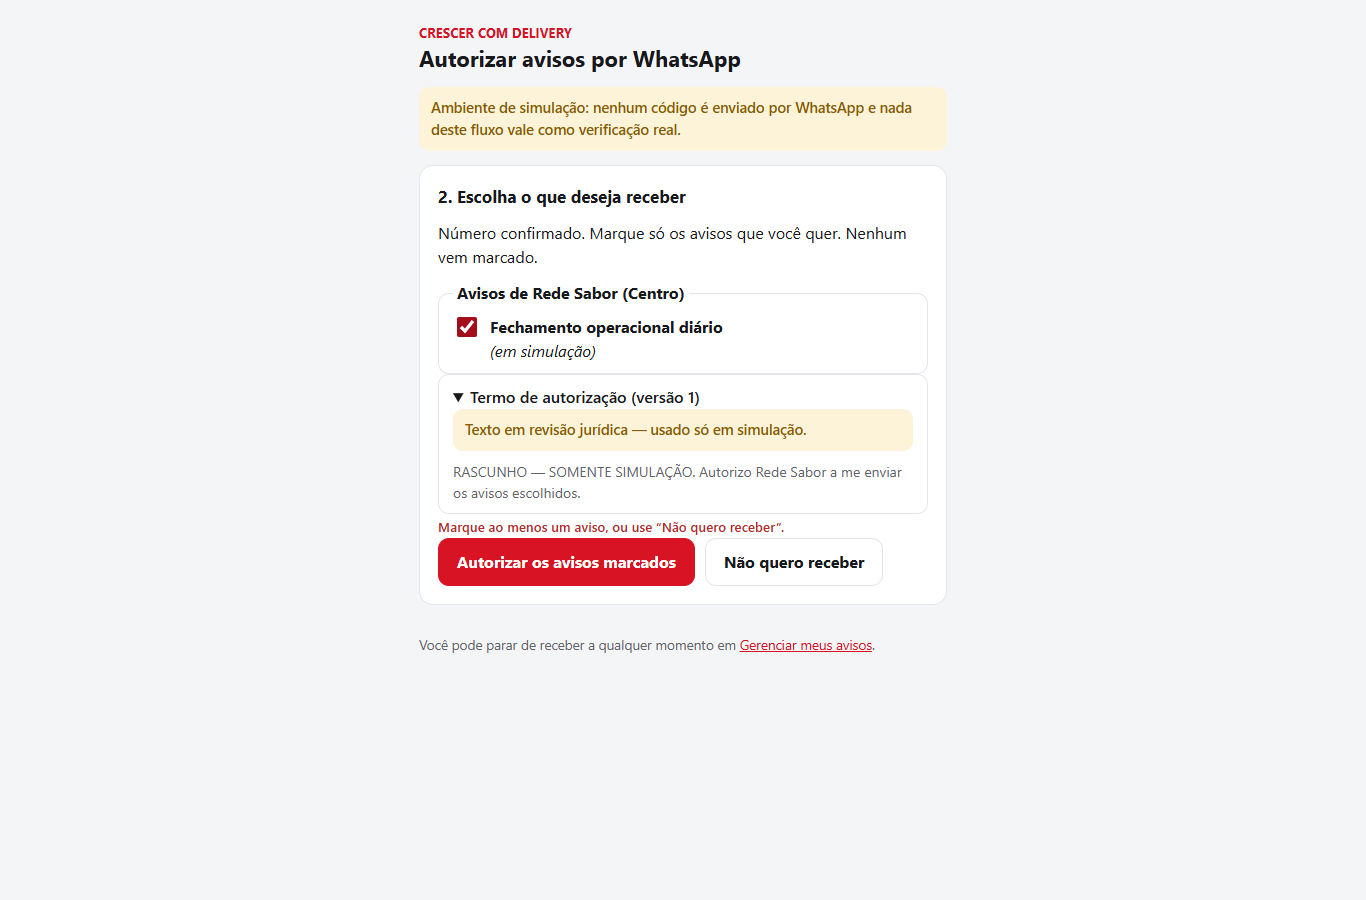
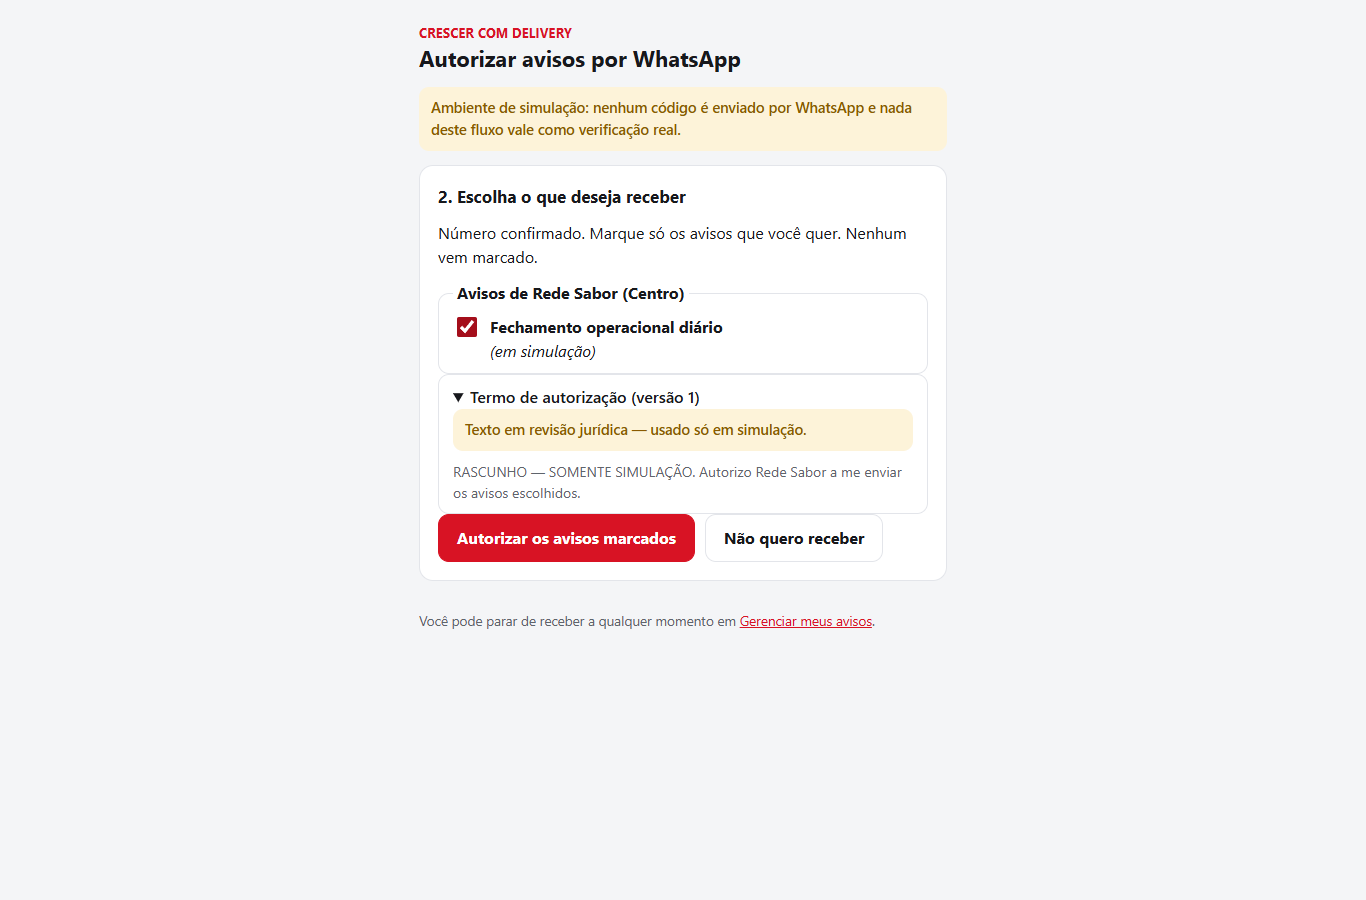
docs(configuracoes-2): revisão final do PR #55, pré-voo de produção e plano de recuperação
- 12 §8: achados R1–R9, regressão final × main, o que não foi executado.
- 14: pré-voo de produção (só leitura), procedimento de implantação, recuperação,
  estado e procedimento do Supabase de teste (bloqueado: confirmação interativa).
- Evidências atualizadas (PostgreSQL 77/77, navegador 9/9, capturas dos perfis).

Changed region(s): [[0.3075, 0.56, 0.6457, 0.6533], [0.3075, 0.6844, 0.6457, 0.7467]]

diff --git a/docs/configuracoes-2-notificacoes/14-preflight-implantacao-recuperacao.md b/docs/configuracoes-2-notificacoes/14-preflight-implantacao-recuperacao.md
@@ -1,0 +1,94 @@
+# 14 — Pré-voo de produção, procedimento de implantação e plano de recuperação
+
+Data: 30/10/2026. PR #55 (`feat/configuracoes-2-central-notificacoes`). Tudo abaixo foi verificado **somente com leitura** em produção.
+Nada foi aplicado, publicado ou alterado em produção.
+
+## 1. Pré-voo de produção (somente leitura, só agregados)
+
+| Verificação | Resultado |
+|---|---|
+| Projeto | `uqybgauuxcrqzquultfu` (produção), PostgreSQL 17.6 — mesma versão dos testes locais |
+| Migrations registradas | até a **131** (`131_checklist_metas_transferencia_unidade`); a main também termina na 131 → 132–135 livres |
+| Funções do D-1 e da transferência (`agendar`, `resolver_destinatarios`, `reservar_envio`, `claim_mensagens`, `remapear_organizacao…`) | **hash idêntico** ao da cadeia da main reconstruída no PostgreSQL descartável (5/5) |
+| Objetos que 132–135 criam | nenhum existe (0 tabelas, 0 colunas, 0 funções) — aplicação limpa |
+| Categorias | só `pendencia_d1` |
+| Flag `selecao_por_escopo` | ausente (seleção por unidade desligada) |
+| Destinatários do D-1 | 41 (41 com `pendencia_d1` habilitada) |
+| Fila ativa no momento | 4 mensagens (operação normal) |
+| Unidades | 53 |
+
+**Compatibilidade código antigo × tabelas novas:** o código atual de produção não conhece as tabelas novas; as colunas novas de
+`unidades` são nulas; o gatilho de `unidades` só valida as colunas novas; a única função existente substituída (`agendar`) muda uma
+linha e, com a flag ausente, chama exatamente o resolvedor antigo (prova no PostgreSQL: mensagens idênticas, reagendamento
+idempotente, fila com colunas/restrições/gatilhos idênticos). O gatilho novo em `comunicacao_destinatario_categorias` só barra
+reativação de categoria **revogada pelo titular** — não há nenhuma revogação registrada hoje.
+
+**Compatibilidade código novo × banco sem as migrations:** o app sobe; fuso cai no padrão (`obterFusoDaUnidade` → nulo), a tela da
+unidade esconde a seção de fuso (`fusoDisponivel=false`), o aviso de fechamento simulado é `try/catch` e a Central responde erro/indisponível.
+Ainda assim, **aplicar as migrations antes do merge** é a ordem recomendada.
+
+**O segredo mestre não é necessário para iniciar** (app real iniciado sem `NOTIFICACOES_SEGREDO_MESTRE`: `/health` 200, páginas
+públicas 200, rotas do titular 503 "indisponível"). Sem ele a Central fica em consulta.
+
+**Cadastro de usuários (D-14) — impacto operacional:** depois do deploy, o admin da EMPRESA não cria mais conta com senha.
+Conta existente → acesso na hora (como antes). Conta nova → sem o segredo: 503 "convites não habilitados"; com o segredo e sem SMTP:
+convite registrado, e-mail **não** enviado (a tela avisa). Enquanto o SMTP não estiver configurado, contas novas continuam podendo
+ser criadas pelo **Painel SuperAdmin** (`/api/v1/plataforma/usuarios`, inalterado).
+
+**Deploy automático:** pelo último registro conhecido (07/10, não reconfirmado: o conector do Render desta sessão não acessa o
+workspace do serviço), o serviço Render do backend (que também serve o frontend) faz auto-deploy a cada commit na `main` com mudança
+em `backend/` — este PR tem mudanças em `backend/`, então **o merge do PR dispara o deploy**. Não há preview do Render no PR #55 (nenhum deployment/check do Render
+no GitHub; confirmar no painel do Render, que esta sessão não acessa). O Vercel gera preview do PR, **protegido por login do
+Vercel** (toda rota responde 302 para `vercel.com/sso-api`).
+
+## 2. Procedimento de implantação (cada passo exige autorização própria)
+
+1. **Janela:** fora do horário de agendamento do D-1. Conferir fila ativa e `selecao_por_escopo` ausente.
+2. **Migrations em produção, em ordem, uma por vez:** 132 → 133 → 134 → 135. Depois de cada uma, rodar as consultas de verificação
+   do fim do arquivo. Depois da 133: hash de `comunicacao_agendar_mensagens_alerta` deve ser `7b7c0a59654ab29890187c5727c91419`
+   (o da branch no PostgreSQL 17) e os demais 4 hashes **inalterados**.
+3. **Conferências pós-migration (leitura):** anon/authenticated sem privilégio nas 7 tabelas e sem EXECUTE nas funções novas;
+   RLS ligada nas 7 tabelas; `resolver_destinatarios_unidade(org, unidade, 'dashboard_ifood_d1')` = `resolver_destinatarios(org, …)`
+   para todas as unidades ativas.
+4. **Merge do PR #55** (dispara o deploy do backend + frontend). Confirmar `/health` e a versão do `styles.css`/`configuracoes.css`.
+5. **Variáveis** (opcional nesta fase): `NOTIFICACOES_SEGREDO_MESTRE` (≥ 32 caracteres aleatórios, guardado fora do repositório).
+   **Nunca** definir `NOTIFICACOES_OTP_TRANSPORTE`, `NOTIFICACOES_AMBIENTE_ISOLADO` ou `NOTIFICACOES_M3_ATIVACAO_HABILITADA` em produção.
+6. **Observação pós-deploy (24 h):** D-1 do dia seguinte com a mesma quantidade de mensagens/destinatários; nenhum erro novo no log.
+7. **Fora desta implantação:** SMTP (DEP-2), corte de fuso (DEP-3), provedor oficial/termos (DEP-4/5), M3.
+
+## 3. Plano de recuperação
+
+| Situação | Ação | Efeito |
+|---|---|---|
+| Problema no código após o deploy | "Rollback" do deploy anterior no Render (ou `git revert -m 1 <merge>` na main, que redeploya) | Volta ao código anterior; as migrations podem ficar (o código antigo é compatível com elas — §1) |
+| Problema nas migrations | Rodar `135_rollback.sql` → `134` → `133` → `132`, nesta ordem | Provado no PostgreSQL descartável: agendamento do D-1 idêntico ao da main, nenhuma tabela nova sobra, reaplicação idempotente. A 133_rollback restaura o corpo EXATO da 104 |
+| Antes do rollback de migrations | Exportar `usuarios_convites`, `comunicacao_convites`, `comunicacao_consentimentos`, `comunicacao_destinatario_escopos` se houver linhas | O rollback **apaga** essas tabelas. Com o transporte desligado, em produção não haverá consentimento nem escopo novo |
+| Segredo mestre | Guardar cópia segura; removê-lo só desliga a escrita da Central | Sem ele, convites cifrados existentes ficam ilegíveis (não afeta o D-1) |
+| M3 | Não será ativada nesta implantação. Se um dia for: `comunicacao_desativar_selecao_por_escopo` | Volta ao resolvedor anterior |
+
+**Ordem segura de recuperação total:** 1) reverter o código; 2) conferir o D-1; 3) só então, se necessário, os rollbacks 135→132.
+
+## 4. Supabase de teste (`teste-multiempresarial`, `wiqqsxnysbzhcrzrrean`)
+
+**Estado:** isolado da produção (projeto diferente). WhatsApp com 2 conexões DISCONNECTED; fila pendente 0.
+Faltam objetos de 105, 109, 110, 116, 117, 118, 124, 127 e 131 (101–104 existem, embora não registrados em `schema_migrations`).
+As 4 funções que 132–135 tocam ou de que dependem têm hash **idêntico** ao da main; `claim_mensagens` difere (não é tocada).
+132–135 não referenciam nenhum objeto faltante.
+
+**Por que não atualizar a cadeia inteira:** 116–118 e 124 pertencem à homologação do iFood, que usa este projeto e tem migrations
+deliberadamente pendentes ali — aplicá-las mudaria o estado de outra frente.
+
+**Tentativa e bloqueio:** a aplicação da 132 pelo conector exige **confirmação interativa por chamada** (2 minutos); a confirmação expirou
+e **nada foi aplicado** (verificado: mesma impressão digital de colunas, 17 migrations registradas). O ciclo completo (aplicar 4,
+reverter 4 para provar a recuperação, reaplicar 4) exige ~12 confirmações acompanhadas. **Bloqueio registrado; nada foi improvisado.**
+
+**Procedimento pronto (para executar acompanhado):**
+1. Impressão digital ANTES (já capturada em 30/10): colunas `d486de29fe78f7a4dedca432cd703aff`, funções `4a9dc2dadd47522cbd2b47cb44ee1c2e`,
+   gatilhos `37cb1fd1295a29cd18b920c352b8d250`, políticas `c6eacacc84ca00f3f5a660ce5c682e95`, ACL/RLS `59d2e13e405bf96101f82a2bddbf0695`,
+   config `f5ee7cc776dc4bb6d57d43e6dd4786b5`, dados (categorias, destinatário×categoria, unidades, contatos) e 17 migrations.
+2. Aplicar 132 → 135 (`apply_migration`, sem as linhas `begin;`/`commit;`).
+3. Validar: hashes (§2.2), privilégios, RLS, PostgREST com a chave **publicável** (anon) — `GET /rest/v1/<tabela nova>` e
+   `POST /rest/v1/rpc/<função nova>` devem ser recusados —, e equivalência do D-1 com dados sintéticos dentro de um bloco que termina
+   em `raise exception` (tudo desfeito).
+4. Recuperação: 135_rollback → 132_rollback; remover as 4 linhas de `schema_migrations` criadas no passo 2; comparar a impressão digital com a do passo 1.
+5. Reaplicar 132 → 135 e repetir a validação. Estado final: 132–135 aplicadas no teste.

diff --git a/docs/configuracoes-2-notificacoes/12-relatorio-implementacao-homologacao.md b/docs/configuracoes-2-notificacoes/12-relatorio-implementacao-homologacao.md
@@ -105,3 +105,30 @@ Mesmo ambiente fictício (`SUPABASE_URL=http://127.0.0.1:9`, sem `DATABASE_URL`)
   (`crescer-wt-100`); as demais entradas órfãs ficaram como estavam (sem permissão). Os dois worktrees temporários da main usados para
   comparar (`wt-main-pfd`, `wt-main-crash`) foram removidos; a metadata deles em `.git/worktrees` não pôde ser apagada (permissão), como as
   órfãs antigas. Nenhuma branch, commit ou worktree ativo foi afetado.
+
+## 8. Revisão final do PR #55 (30/10/2026, commit `b5ca1f2`)
+
+**Achados e correções desta revisão:**
+
+| # | Achado | Severidade | Situação |
+|---|---|---|---|
+| R1 | Cifra autenticada aceitava tag GCM truncada (4 bytes) — Node só fixa o tamanho com `authTagLength` | Baixa (exige escrita no banco para explorar) | **Corrigido** + teste |
+| R2 | Faltava teste HTTP das rotas públicas (só POST, 429 por IP, sem cache/referrer) e do D-3 por papel | Lacuna de teste | **Coberto** (`notificacoes-http-negativos.test.js`, 9 testes; recusas não tocam dados e são auditadas) |
+| R3 | Prova do D-1 não cobria idempotência ao reagendar nem a definição da fila | Lacuna de teste | **Coberto** no PostgreSQL (77/77) |
+| R4 | Perfis Financeiro/Consulta/Operação não testados no navegador | Lacuna de teste | **Coberto** com o catálogo real de permissões |
+| R5 | Piso de 700 ms na gestão do titular: se o caminho real passar disso em produção, a existência do número pode vazar pelo tempo | Baixa/média | **Risco residual** — medir na homologação e subir o piso se preciso |
+| R6 | Link de convite montado com `req.protocol`/`Host` | Baixa (`trust proxy` em produção; redirect do e-mail limitado pela lista do Supabase) | Aceito |
+| R7 | Números de quem CONSENTE ficam em `comunicacao_contatos_empresa.telefone_e164` (coluna existente, em claro, como os legados) | Informativo | Modelo atual do D-1; cifra cobre convites e desafios |
+| R8 | 503 "indisponível" das rotas públicas gera stack no log | Ruído (sem dado) | Aceito |
+| R9 | Admin da empresa perde a criação de conta com senha (D-14) até o SMTP; SuperAdmin continua criando | Operacional | Decisão de implantação (doc 14 §1) |
+
+**Verificado e sem achado:** sem `SECURITY DEFINER`; 25 funções com `search_path` fixo; RLS nas 7 tabelas; logs só com ids/contagens;
+tokens nunca na URL; páginas públicas sem script inline e com `textContent`/escape; preview do Vercel protegido por login;
+nenhum preview do Render no PR; aceite de convite funciona para conta sem `perfis`; app inicia sem o segredo; nenhum conflito novo
+com as branches do Financeiro (mesmas contagens que a main) e nenhuma colisão de número de migration.
+
+**Regressão final × main (`9da8210`):** backend 5777 / 5738 ok / **14 falhas = as mesmas 14 da main, 0 só na branch** / 25 pulados;
+frontend 1648 / 0 falhas; navegador 126/127 (a falha `parserFoodDelivery` "dia único" ocorre igual na main); PostgreSQL descartável 77/77.
+
+**Não executado (não classificar como PASS):** homologação no Supabase de teste (bloqueada — doc 14 §4); validação via PostgREST real;
+e-mail real do convite de usuário; medição de latência da gestão do titular; testes em celular físico (feitos em viewport de 390 px).

diff --git a/docs/configuracoes-2-notificacoes/README.md b/docs/configuracoes-2-notificacoes/README.md
@@ -17,3 +17,4 @@ Missão **somente de auditoria e planejamento** (30/10/2026): nenhum código fun
 | [11 — Plano de execução consolidada](11-plano-execucao-consolidada.md) | Plano final das Etapas 1–5 numa execução: invariantes, pré-voo, blocos B1–B7, migrations 132–135, flags, matriz de testes, dependências não resolvidas (DEP-1..9), aceite |
 | [12 — Relatório de implementação e homologação](12-relatorio-implementacao-homologacao.md) | O que foi entregue (blocos A–F), testes, evidências do D-1/segurança/M3/transferência, regressão × main, correções, limitações |
 | [13 — Dependências para produção](13-dependencias-producao.md) | Ordem de implantação, variáveis novas (nenhuma criada), DEP-1..11, garantias do que não muda |
+| [14 — Pré-voo, implantação e recuperação](14-preflight-implantacao-recuperacao.md) | Pré-voo de produção (só leitura), procedimento de implantação, plano de recuperação, estado e procedimento do Supabase de teste |
